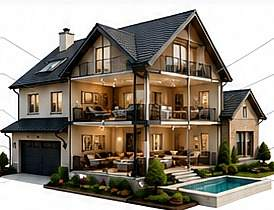
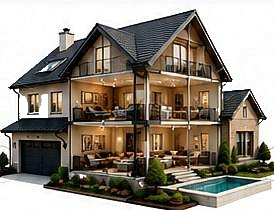
Landing page house: labels at the end of leader lines
- Removed the unlabelled grey pointer lines baked into the house image
- Labels now sit beside the house, each joined by a leader line to a
  marker on its system (roof, electrical, HVAC, plumbing, water heater,
  appliances); on phones the labels sit on the house without lines

Claude-Session: https://claude.ai/code/session_012h4hYF6pR8PicJVsU9i3MH

diff --git a/src/app/page.tsx b/src/app/page.tsx
@@ -1,6 +1,7 @@
 /* eslint-disable @next/next/no-img-element */
 // Screen markup only. Styles are in src/app/prototype.css, click behaviour in
 // src/components/proto/Behaviors.tsx.
+import type React from "react";
 import type { Metadata } from "next";
 import { PublicNav } from "@/components/proto/PublicNav";
 import { PublicFooter } from "@/components/proto/PublicFooter";
@@ -126,20 +127,36 @@ export default function Page() {
               </div>
             </div>
           </div>
-          <div className="ux-house-pic">
-            <img src="/images/timp/home-sbs-house.jpg" alt="Cutaway view of a home showing its major systems" />
-            <button className="ux-pin is-on" data-sys="roof" style={{ left: "48%", top: "11%" }}>
-              <i></i>Roof</button>
-            <button className="ux-pin" data-sys="electrical" style={{ left: "40%", top: "37%" }}>
+          <div className="ux-house-pic labelled">
+            <div className="frame">
+              <img src="/images/timp/home-sbs-house.jpg" alt="Cutaway view of a home showing its major systems" />
+            </div>
+            <svg className="ux-leaders" viewBox="0 0 100 100" preserveAspectRatio="none" aria-hidden="true">
+              <line x1="18" y1="36" x2="42.32" y2="39" />
+              <line x1="18" y1="64" x2="27.6" y2="74" />
+              <line x1="18" y1="88" x2="47.44" y2="76" />
+              <line x1="82" y1="12" x2="57.68" y2="15" />
+              <line x1="82" y1="48" x2="74.96" y2="57" />
+              <line x1="82" y1="74" x2="64.08" y2="66" />
+            </svg>
+            <span className="ux-tgt" style={{ left: "42.32%", top: "39%" }}></span>
+            <span className="ux-tgt" style={{ left: "27.6%", top: "74%" }}></span>
+            <span className="ux-tgt" style={{ left: "47.44%", top: "76%" }}></span>
+            <span className="ux-tgt" style={{ left: "57.68%", top: "15%" }}></span>
+            <span className="ux-tgt" style={{ left: "74.96%", top: "57%" }}></span>
+            <span className="ux-tgt" style={{ left: "64.08%", top: "66%" }}></span>
+            <button className="ux-pin L" data-sys="electrical" style={{ "--ly": "36%", "--px": "38%", "--py": "39%" } as React.CSSProperties}>
               <i></i>Electrical</button>
-            <button className="ux-pin" data-sys="hvac" style={{ left: "88%", top: "46%" }}>
-              <i></i>HVAC</button>
-            <button className="ux-pin" data-sys="appliances" style={{ left: "74%", top: "66%" }}>
-              <i></i>Appliances</button>
-            <button className="ux-pin" data-sys="plumbing" style={{ left: "58%", top: "78%" }}>
-              <i></i>Plumbing</button>
-            <button className="ux-pin" data-sys="water" style={{ left: "21%", top: "72%" }}>
+            <button className="ux-pin L" data-sys="water" style={{ "--ly": "64%", "--px": "15%", "--py": "74%" } as React.CSSProperties}>
               <i></i>Water heater</button>
+            <button className="ux-pin L" data-sys="plumbing" style={{ "--ly": "88%", "--px": "46%", "--py": "76%" } as React.CSSProperties}>
+              <i></i>Plumbing</button>
+            <button className="ux-pin R is-on" data-sys="roof" style={{ "--ly": "12%", "--px": "62%", "--py": "15%" } as React.CSSProperties}>
+              <i></i>Roof</button>
+            <button className="ux-pin R" data-sys="hvac" style={{ "--ly": "48%", "--px": "89%", "--py": "57%" } as React.CSSProperties}>
+              <i></i>HVAC</button>
+            <button className="ux-pin R" data-sys="appliances" style={{ "--ly": "74%", "--px": "72%", "--py": "66%" } as React.CSSProperties}>
+              <i></i>Appliances</button>
           </div>
         </div>
       </section>

diff --git a/src/app/prototype.css b/src/app/prototype.css
@@ -3482,16 +3482,28 @@
 @media (max-width:900px){.timp .ux-team{grid-template-columns:minmax(0,1fr)}}
 @media (max-width:600px){.timp .ux-banner{padding:20px}.timp .ux-banner b{font-size:19px}}
 
-/* feedback round 2: labelled house, add-on notes */
-.timp .ux-pin{position:absolute;transform:translate(-50%,-50%);display:inline-flex;align-items:center;gap:6px;padding:5px 10px 5px 6px;
-  border-radius:999px;background:rgba(255,255,255,.94);border:1px solid var(--line);box-shadow:0 2px 8px rgba(14,42,68,.18);
+/* feedback round 2: labelled house (labels in the side gutters, leader lines to each system) */
+.timp .ux-house-pic.labelled{position:relative;padding:0 18%}
+.timp .ux-house-pic.labelled .frame{position:relative}
+.timp .ux-leaders{position:absolute;top:0;left:0;width:100%;height:100%;pointer-events:none;overflow:visible}
+.timp .ux-leaders line{stroke:#7A8FA3;stroke-width:1.5;vector-effect:non-scaling-stroke}
+.timp .ux-tgt{position:absolute;width:10px;height:10px;margin:-5px 0 0 -5px;border-radius:50%;background:var(--teal);
+  box-shadow:0 0 0 3px rgba(255,255,255,.9),0 0 0 5px rgba(25,167,165,.35);pointer-events:none}
+.timp .ux-pin{position:absolute;top:var(--ly);transform:translateY(-50%);display:inline-flex;align-items:center;gap:6px;padding:5px 10px 5px 6px;
+  border-radius:999px;background:#fff;border:1px solid var(--line);box-shadow:0 2px 8px rgba(14,42,68,.14);
   font-size:13px;font-weight:700;color:var(--navy);white-space:nowrap;cursor:pointer}
-.timp .ux-pin i{width:10px;height:10px;border-radius:50%;background:var(--teal);box-shadow:0 0 0 3px rgba(25,167,165,.25)}
+.timp .ux-pin.L{right:calc(82% + 4px)}
+.timp .ux-pin.R{left:calc(82% + 4px)}
+.timp .ux-pin i{width:9px;height:9px;border-radius:50%;background:var(--teal)}
 .timp .ux-pin:hover{border-color:var(--teal-deep)}
 .timp .ux-pin.is-on{background:var(--navy);border-color:var(--navy);color:#fff}
 .timp .ux-pin.is-on i{background:#6FD6D3}
-.timp .ux-table td .s{display:block;font-size:13.5px;color:var(--slate);margin-top:2px}
 @media (max-width:600px){
-  .timp .ux-pin{font-size:11.5px;padding:3px 8px 3px 4px;gap:4px}
+  /* no room for side labels on a phone: labels sit on the house, without leader lines */
+  .timp .ux-house-pic.labelled{padding:0}
+  .timp .ux-leaders,.timp .ux-tgt{display:none}
+  .timp .ux-pin,.timp .ux-pin.L,.timp .ux-pin.R{left:var(--px);right:auto;top:var(--py);transform:translate(-50%,-50%);
+    font-size:11.5px;padding:3px 8px 3px 4px;gap:4px}
   .timp .ux-pin i{width:8px;height:8px}
 }
+.timp .ux-table td .s{display:block;font-size:13.5px;color:var(--slate);margin-top:2px}
